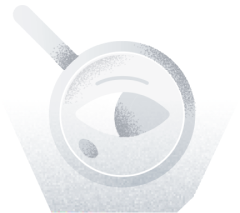
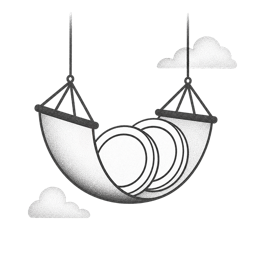
feat(web): consistent multisig empty states + refreshed visual (#2529)

Changed region(s): [[0.0875, 0.0563, 0.875, 1.0], [0.8167, 0.169, 0.9333, 0.2817]]

diff --git a/apps/web/app/pages/multisig/dashboard/dashboard.page.tsx b/apps/web/app/pages/multisig/dashboard/dashboard.page.tsx
@@ -10,8 +10,9 @@ import { useDashboardActivity } from '~/features/multisig/vaults/use-dashboard-a
 import { useVaults } from '~/features/multisig/vaults/use-vaults';
 
 import type { VaultSummary } from '@leather.io/models';
-import { Button } from '@leather.io/ui';
+import { Button, ListContainer, PlusIcon } from '@leather.io/ui';
 
+import { ActivityEmptyState } from '../components/activity-empty-state';
 import { ChainAvatar } from '../components/chain-avatar';
 import { InvitationModal } from '../components/invitation-modal';
 import { MultisigPage } from '../components/multisig-page';
@@ -24,45 +25,31 @@ import { VaultCard } from './components/vault-card';
 
 function EmptyVaults({ onCreate }: { onCreate(): void }) {
   return (
-    <Flex
-      direction="column"
-      alignItems="center"
-      textAlign="center"
-      gap="space.03"
-      py="space.08"
-      px="space.04"
-      borderRadius="md"
-      borderWidth="1px"
-      borderStyle="dashed"
-      borderColor="ink.border-default"
-    >
-      <styled.img src="/multisig/illustrations/no-funds.png" alt="" width="72px" height="72px" />
-      <styled.h4 textStyle="label.01">No vaults yet</styled.h4>
-      <styled.p textStyle="body.02" color="ink.text-subdued" maxWidth="320px">
-        Vaults are chain-specific. Create one to get started, or accept an invite to join an
-        existing one.
-      </styled.p>
-      <Button variant="solid" onClick={onCreate}>
-        Create vault
-      </Button>
-    </Flex>
-  );
-}
-
-function EmptyActivity() {
-  return (
-    <Flex direction="column" alignItems="center" textAlign="center" gap="space.02" py="space.07">
-      <styled.img
-        src="/multisig/illustrations/no-activity.png"
-        alt=""
-        width="56px"
-        height="56px"
-        style={{ opacity: 0.9 }}
-      />
-      <styled.span textStyle="caption.01" color="ink.text-subdued">
-        No activity yet.
-      </styled.span>
-    </Flex>
+    <ListContainer height="100%">
+      <Flex
+        direction="column"
+        alignItems="flex-start"
+        justifyContent="center"
+        textAlign="left"
+        gap="space.03"
+        minHeight="288px"
+        py="space.06"
+        px="space.05"
+      >
+        <styled.h3 textStyle="heading.05" color="ink.text-primary">
+          No vaults yet
+        </styled.h3>
+        <styled.p textStyle="body.02" color="ink.text-subdued" maxWidth="360px">
+          Vaults are chain-specific. Create one to get started. Any invite you receive shows up here
+          automatically.
+        </styled.p>
+        <Box mt="space.02">
+          <Button variant="solid" iconStart={PlusIcon} onClick={onCreate}>
+            Create vault
+          </Button>
+        </Box>
+      </Flex>
+    </ListContainer>
   );
 }
 
@@ -94,7 +81,8 @@ function ActivityFeed({
       </Flex>
     );
   }
-  if (items.length === 0) return <EmptyActivity />;
+  if (items.length === 0)
+    return <ActivityEmptyState description="Transactions across your vaults will appear here." />;
   return (
     <VaultActivityList
       items={items}

diff --git a/apps/web/app/pages/multisig/components/activity-empty-state.spec.tsx b/apps/web/app/pages/multisig/components/activity-empty-state.spec.tsx
@@ -1,0 +1,75 @@
+// @vitest-environment jsdom
+import { type ReactElement, act } from 'react';
+import { createRoot } from 'react-dom/client';
+
+import { afterEach, beforeAll, describe, expect, it } from 'vitest';
+
+import { ActivityEmptyState } from './activity-empty-state';
+
+const mounted: { root: ReturnType<typeof createRoot>; container: HTMLElement }[] = [];
+
+function mount(element: ReactElement) {
+  const container = document.createElement('div');
+  document.body.appendChild(container);
+  const root = createRoot(container);
+  act(() => {
+    root.render(element);
+  });
+  mounted.push({ root, container });
+  return container;
+}
+
+beforeAll(() => {
+  Reflect.set(globalThis, 'IS_REACT_ACT_ENVIRONMENT', true);
+});
+
+afterEach(() => {
+  while (mounted.length) {
+    const instance = mounted.pop();
+    if (!instance) continue;
+    act(() => {
+      instance.root.unmount();
+    });
+    instance.container.remove();
+  }
+});
+
+describe('ActivityEmptyState', () => {
+  it('renders the default title when none is provided', () => {
+    const container = mount(<ActivityEmptyState />);
+    expect(container.textContent).toContain('No activity yet');
+  });
+
+  it('renders a custom title when provided', () => {
+    const container = mount(<ActivityEmptyState title="No transactions yet" />);
+    expect(container.textContent).toContain('No transactions yet');
+  });
+
+  it('renders the description when provided', () => {
+    const container = mount(
+      <ActivityEmptyState description="Transactions for this vault will appear here." />
+    );
+    expect(container.textContent).toContain('Transactions for this vault will appear here.');
+  });
+
+  it('omits the description when not provided', () => {
+    const container = mount(<ActivityEmptyState />);
+    expect(container.textContent).not.toContain('will appear here');
+  });
+
+  it('renders both the light and dark illustration sources for the theme swap', () => {
+    const container = mount(<ActivityEmptyState />);
+    const sources = Array.from(container.querySelectorAll('img')).map(img =>
+      img.getAttribute('src')
+    );
+    expect(sources).toContain('/multisig/illustrations/no-activity.png');
+    expect(sources).toContain('/multisig/illustrations/no-activity-dark.png');
+  });
+
+  it('marks both illustrations as decorative so the caption carries the label', () => {
+    const container = mount(<ActivityEmptyState />);
+    const images = Array.from(container.querySelectorAll('img'));
+    expect(images).toHaveLength(2);
+    images.forEach(img => expect(img.getAttribute('alt')).toBe(''));
+  });
+});

diff --git a/apps/web/app/pages/multisig/components/activity-empty-state.tsx b/apps/web/app/pages/multisig/components/activity-empty-state.tsx
@@ -1,0 +1,65 @@
+import { Flex, styled } from 'leather-styles/jsx';
+
+import { ListContainer } from '@leather.io/ui';
+
+const defaultTitle = 'No activity yet';
+const illustrationSize = '96px';
+// Shared floor so the empty state never collapses and stays aligned with a
+// neighbouring container (e.g. the vault empty state on the dashboard).
+const defaultMinHeight = '288px';
+
+interface ActivityEmptyStateProps {
+  title?: string;
+  description?: string;
+  minHeight?: string;
+}
+
+export function ActivityEmptyState({
+  title = defaultTitle,
+  description,
+  minHeight = defaultMinHeight,
+}: ActivityEmptyStateProps) {
+  return (
+    <ListContainer height="100%">
+      <Flex
+        direction="column"
+        alignItems="center"
+        justifyContent="center"
+        textAlign="center"
+        gap="space.01"
+        minHeight={minHeight}
+        py="space.05"
+      >
+        <styled.img
+          src="/multisig/illustrations/no-activity.png"
+          alt=""
+          width={illustrationSize}
+          height={illustrationSize}
+          display={{ base: 'block', _dark: 'none' }}
+          mb="space.02"
+        />
+        <styled.img
+          src="/multisig/illustrations/no-activity-dark.png"
+          alt=""
+          width={illustrationSize}
+          height={illustrationSize}
+          display={{ base: 'none', _dark: 'block' }}
+          mb="space.02"
+        />
+        <styled.span textStyle="label.02" color="ink.text-primary">
+          {title}
+        </styled.span>
+        {description ? (
+          <styled.span
+            textStyle="caption.01"
+            color="ink.text-subdued"
+            maxWidth="220px"
+            style={{ textWrap: 'balance' }}
+          >
+            {description}
+          </styled.span>
+        ) : null}
+      </Flex>
+    </ListContainer>
+  );
+}

diff --git a/apps/web/app/pages/multisig/account/components/account-transactions.tsx b/apps/web/app/pages/multisig/account/components/account-transactions.tsx
@@ -1,11 +1,12 @@
 import { useNavigate } from 'react-router';
 
-import { Box, Flex, styled } from 'leather-styles/jsx';
+import { Box, Flex } from 'leather-styles/jsx';
 import { useVaultAccountActivityFeed } from '~/features/multisig/activity/use-vault-account-activity-feed';
 
 import type { VaultAccount } from '@leather.io/models';
 import { Button } from '@leather.io/ui';
 
+import { ActivityEmptyState } from '../../components/activity-empty-state';
 import { VaultActivityList } from '../../components/vault-activity-list';
 import { multisigPaths } from '../../multisig.constants';
 
@@ -35,20 +36,7 @@ export function AccountTransactions({ account }: AccountTransactionsProps) {
   }
 
   if (items.length === 0) {
-    return (
-      <Box
-        borderRadius="md"
-        borderWidth="1px"
-        borderStyle="dashed"
-        borderColor="ink.border-default"
-        p="space.05"
-        textAlign="center"
-      >
-        <styled.span textStyle="caption.01" color="ink.text-subdued">
-          No transactions yet.
-        </styled.span>
-      </Box>
-    );
+    return <ActivityEmptyState description="Transactions for this account will appear here." />;
   }
 
   return (

diff --git a/apps/web/app/pages/multisig/vault/components/vault-transactions.tsx b/apps/web/app/pages/multisig/vault/components/vault-transactions.tsx
@@ -1,10 +1,11 @@
 import { useNavigate } from 'react-router';
 
-import { Box, Flex, styled } from 'leather-styles/jsx';
+import { Box, Flex } from 'leather-styles/jsx';
 import { useVaultActivity } from '~/features/multisig/activity/use-vault-activity';
 
 import type { VaultAccountSummary } from '@leather.io/models';
 
+import { ActivityEmptyState } from '../../components/activity-empty-state';
 import { VaultActivityList } from '../../components/vault-activity-list';
 import { multisigPaths } from '../../multisig.constants';
 
@@ -34,20 +35,7 @@ export function VaultTransactions({ accounts }: VaultTransactionsProps) {
   }
 
   if (items.length === 0) {
-    return (
-      <Box
-        borderRadius="md"
-        borderWidth="1px"
-        borderStyle="dashed"
-        borderColor="ink.border-default"
-        p="space.05"
-        textAlign="center"
-      >
-        <styled.span textStyle="caption.01" color="ink.text-subdued">
-          No transactions yet.
-        </styled.span>
-      </Box>
-    );
+    return <ActivityEmptyState description="Transactions for this vault will appear here." />;
   }
 
   return (

diff --git a/apps/web/app/pages/multisig/account/components/asset-detail-modal.tsx b/apps/web/app/pages/multisig/account/components/asset-detail-modal.tsx
@@ -19,6 +19,7 @@ import {
 } from '@leather.io/queries';
 import { AssetAvatarIcon, Button, CloseIcon, IconButton, Sheet } from '@leather.io/ui';
 
+import { ActivityEmptyState } from '../../components/activity-empty-state';
 import { CopyAddress } from '../../components/copy-address';
 import { VaultActivityList } from '../../components/vault-activity-list';
 
@@ -152,20 +153,7 @@ function RecentActivity({ activity }: RecentActivityProps) {
   }
 
   if (activity.views.length === 0) {
-    return (
-      <Box
-        borderRadius="md"
-        borderWidth="1px"
-        borderStyle="dashed"
-        borderColor="ink.border-default"
-        p="space.05"
-        textAlign="center"
-      >
-        <styled.span textStyle="caption.01" color="ink.text-subdued">
-          No activity yet.
-        </styled.span>
-      </Box>
-    );
+    return <ActivityEmptyState description="Activity for this asset will appear here." />;
   }
 
   return (

diff --git a/apps/web/app/pages/multisig/components/avatar-sq.tsx b/apps/web/app/pages/multisig/components/avatar-sq.tsx
@@ -39,7 +39,11 @@ export function AvatarSq({
   const glyphPx = glyphSize[size];
   const maskUrl = icon ? `url(${accountIconUrl(icon)})` : undefined;
   return (
-    <Box position="relative" width={`${px}px`} height={`${px}px`} flexShrink={0}>
+    <Box
+      position="relative"
+      flexShrink={0}
+      style={{ width: `${px}px`, height: `${px}px`, minWidth: `${px}px`, minHeight: `${px}px` }}
+    >
       <Box
         width="100%"
         height="100%"
@@ -52,10 +56,10 @@ export function AvatarSq({
       >
         {icon && (
           <Box
-            width={`${glyphPx}px`}
-            height={`${glyphPx}px`}
             bg={theme.dark ? 'white' : 'ink.text-primary'}
             style={{
+              width: `${glyphPx}px`,
+              height: `${glyphPx}px`,
               WebkitMaskImage: maskUrl,
               maskImage: maskUrl,
               WebkitMaskRepeat: 'no-repeat',

diff --git a/apps/web/app/pages/multisig/account/components/account-assets.tsx b/apps/web/app/pages/multisig/account/components/account-assets.tsx
@@ -33,7 +33,7 @@ export function AccountAssets({ assets, onSelectAsset }: AccountAssetsProps) {
       <Box
         borderRadius="md"
         borderWidth="1px"
-        borderStyle="dashed"
+        borderStyle="solid"
         borderColor="ink.border-default"
         p="space.05"
         textAlign="center"

diff --git a/apps/web/app/pages/multisig/vault/components/accounts-section.tsx b/apps/web/app/pages/multisig/vault/components/accounts-section.tsx
@@ -127,7 +127,7 @@ function CreateAccountDisabled({ reason }: { reason?: string }) {
       p="space.05"
       borderRadius="md"
       borderWidth="1px"
-      borderStyle="dashed"
+      borderStyle="solid"
       borderColor="ink.border-default"
       textAlign="center"
     >
